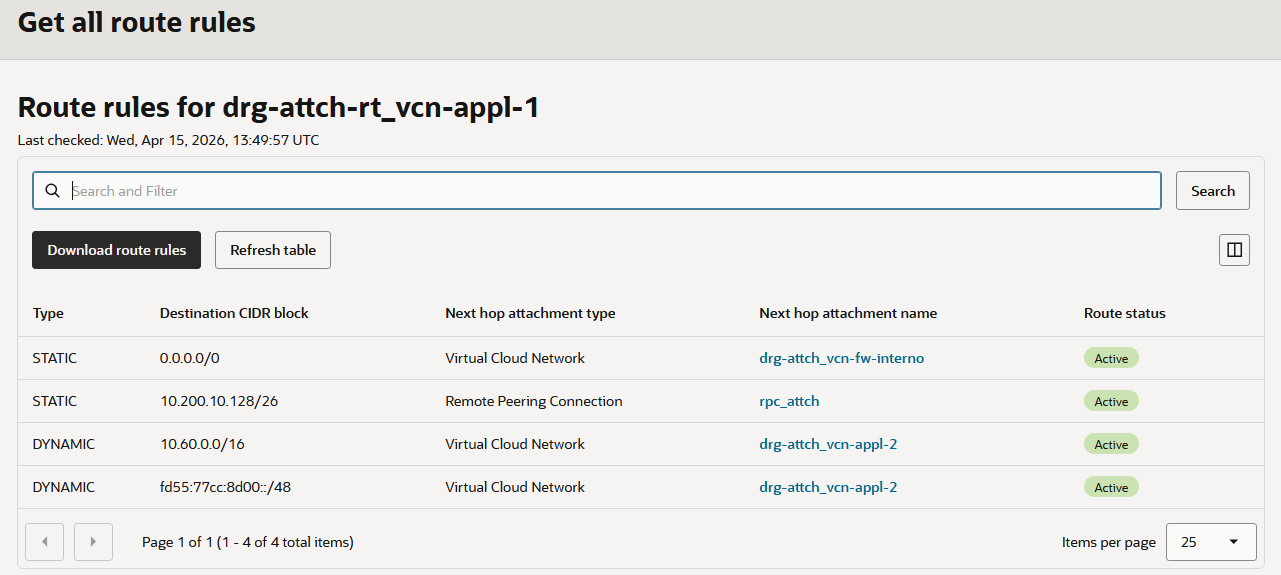
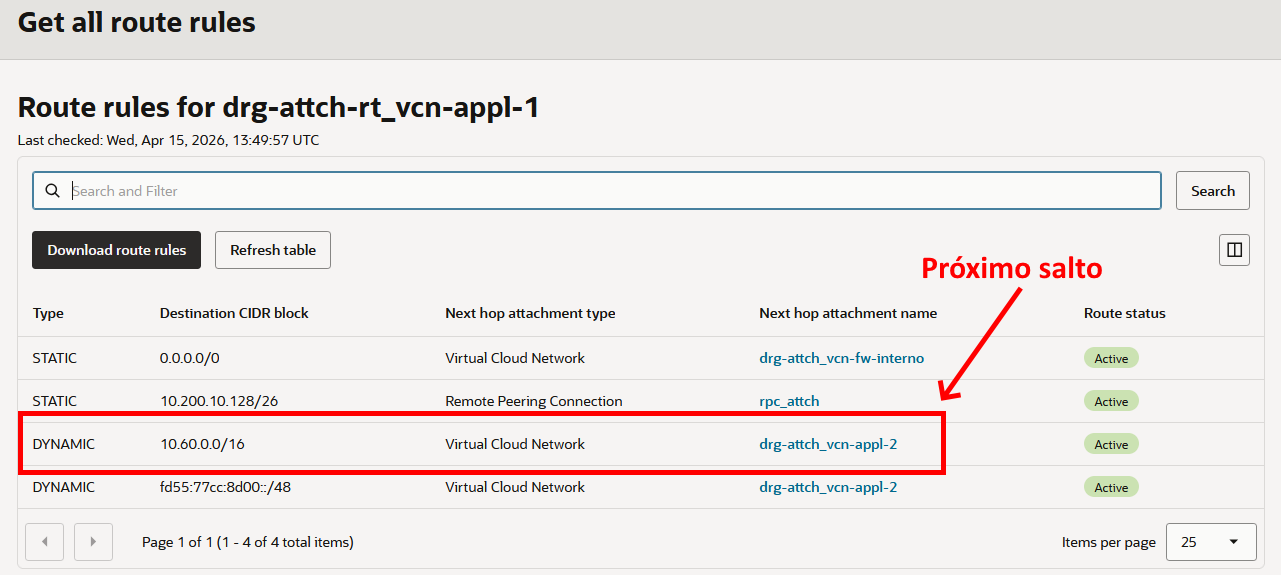
Escrevendo a documentação

Changed region(s): [[0.0, 0.6504, 0.7494, 0.8278], [0.7182, 0.4435, 0.8743, 0.5617], [0.7494, 0.5617, 0.7806, 0.6504]]

diff --git a/docs/roteamento-avancado.md b/docs/roteamento-avancado.md
@@ -60,7 +60,7 @@ Há outros símbolos usados pelo [Network Visualizer](https://docs.oracle.com/en
 
 ### Análise de Roteamento
 
-Suponha que você queira entender como um compute instance em uma sub-rede da VCN-APPL-1 se comunica com recursos da VCN-APPL-2. No exemplo, há uma instância chamada APPL-1 (10.50.10.10) na VCN-APPL-1 e outra chamada APPL-2 (10.60.10.10) na VCN-APPL-2.
+Suponha que você queira entender como um compute instance em uma sub-rede da VCN-APPL-1 se comunica com recursos da VCN-APPL-2. No exemplo, há uma instância chamada APPL-1 (`10.50.10.10`) na VCN-APPL-1 e outra chamada APPL-2 (`10.60.10.10`) na VCN-APPL-2.
 
 ```bash
 [opc@appl1 ~]$ ping -c2 10.60.10.10
@@ -94,11 +94,11 @@ Nessa tabela há uma regra IPv4 que encaminha todo o tráfego para o DRG (`drg-i
 
 #### 3. Tabela de rotas do DRG
 
-A próxima decisão de roteamento ocorre quando o pacote entra no DRG:
+A próxima decisão de roteamento ocorre quando o _PACOTE ENTRA_ no DRG:
 
 ![Network Viualizer #5](/docs/img/network-visualizer-5.png)
 
-Neste caso, consulta-se a tabela do DRG `drg-attch-rt_vcn-appl-1` para determinar o próximo salto.
+Neste caso, consulta-se a tabela do DRG `drg-attch-rt_vcn-appl-1` para determinar o próximo salto:
 
 ![Network Viualizer #6](/docs/img/network-visualizer-6.png)
 
@@ -107,3 +107,19 @@ Neste caso, consulta-se a tabela do DRG `drg-attch-rt_vcn-appl-1` para determina
 Redes importadas para este anexo via route distribution `import-routes_vcn-appl-1`:
 
 ![Network Viualizer #8](/docs/img/network-visualizer-8.png)
+
+Observa‑se que o próximo salto para alcançar o host de destino (`10.60.10.10`) é o anexo `drg-attch_vcn-appl-2`.
+
+#### 4. Saída do DRG
+
+Após a decisão de roteamento da tabela `drg-attch-rt_vcn-appl-1`, o tráfego é encaminhado diretamente para o anexo `drg-attch_vcn-appl-2`, onde se encontra o host de destino (`10.60.10.10`):
+
+![Network Viualizer #9](/docs/img/network-visualizer-9.png)
+
+Lembre que, se o anexo tiver uma tabela de rotas de VCN associada (`VCN Route Table`), haverá mais uma decisão de roteamento antes do tráfego alcançar o destino:
+
+![Network Viualizer #10](/docs/img/network-visualizer-10.png)
+
+Esse tipo de configuração é usado para forçar o tráfego a passar por um firewall. No caso da topologia que está sendo estudada, o tráfego ao entrar nas VCNs `vcn-fw-interno` ou `vcn-fw-externo`, será encaminhado para um [Network Load Balancer](https://docs.oracle.com/en-us/iaas/Content/NetworkLoadBalancer/home.htm) para então ser direcionado para o firewall.
+
+![Network Viualizer #11](/docs/img/network-visualizer-11.png)
